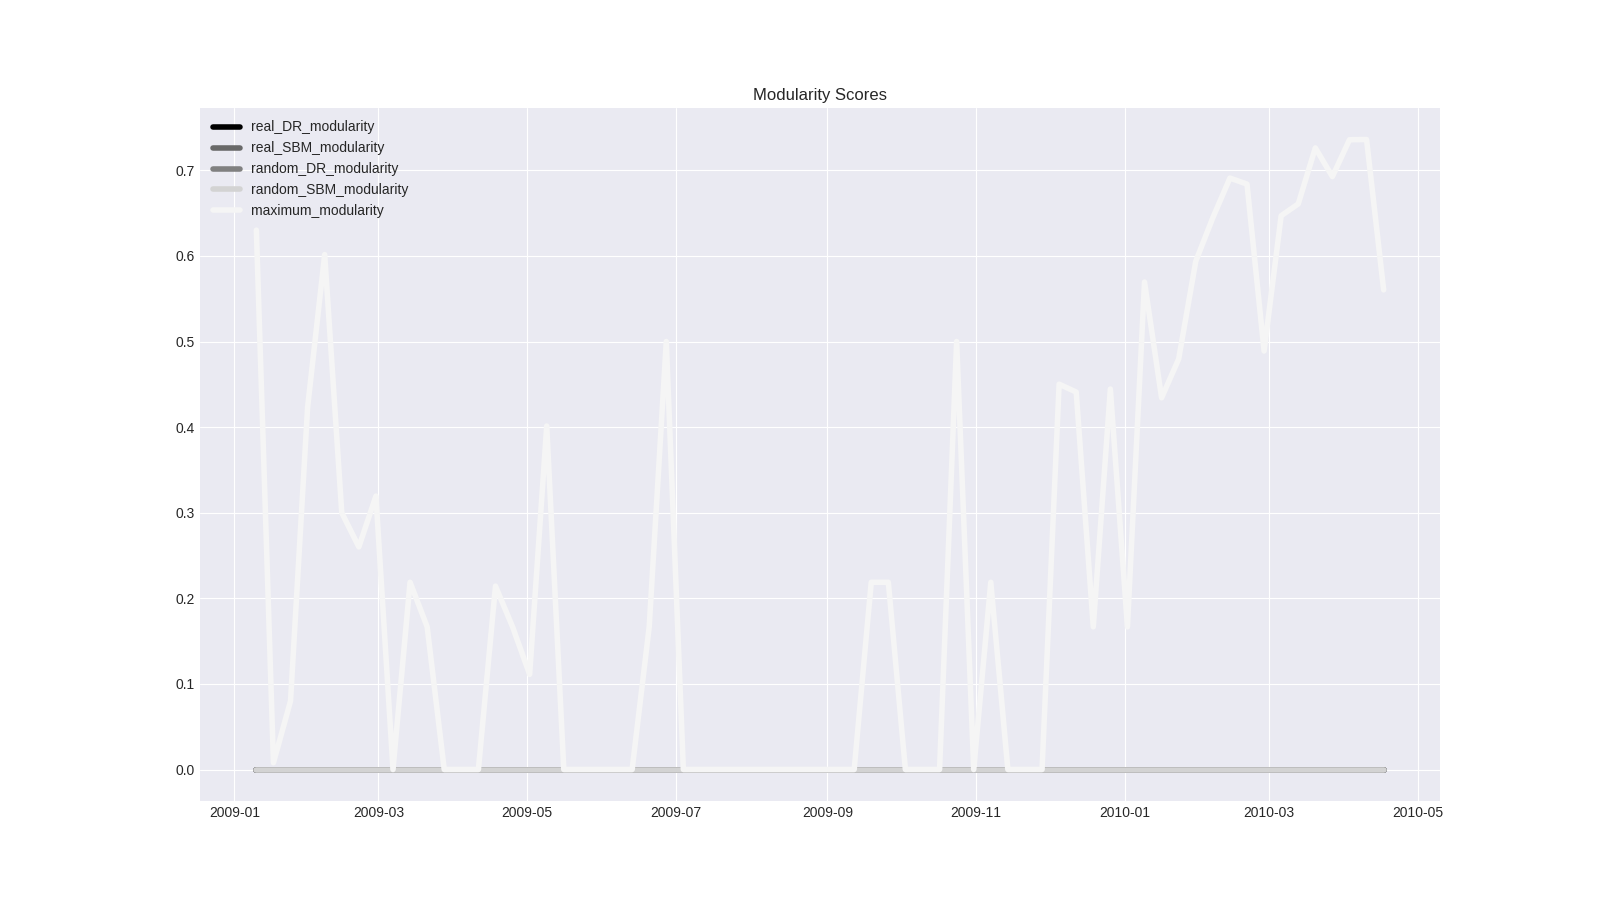
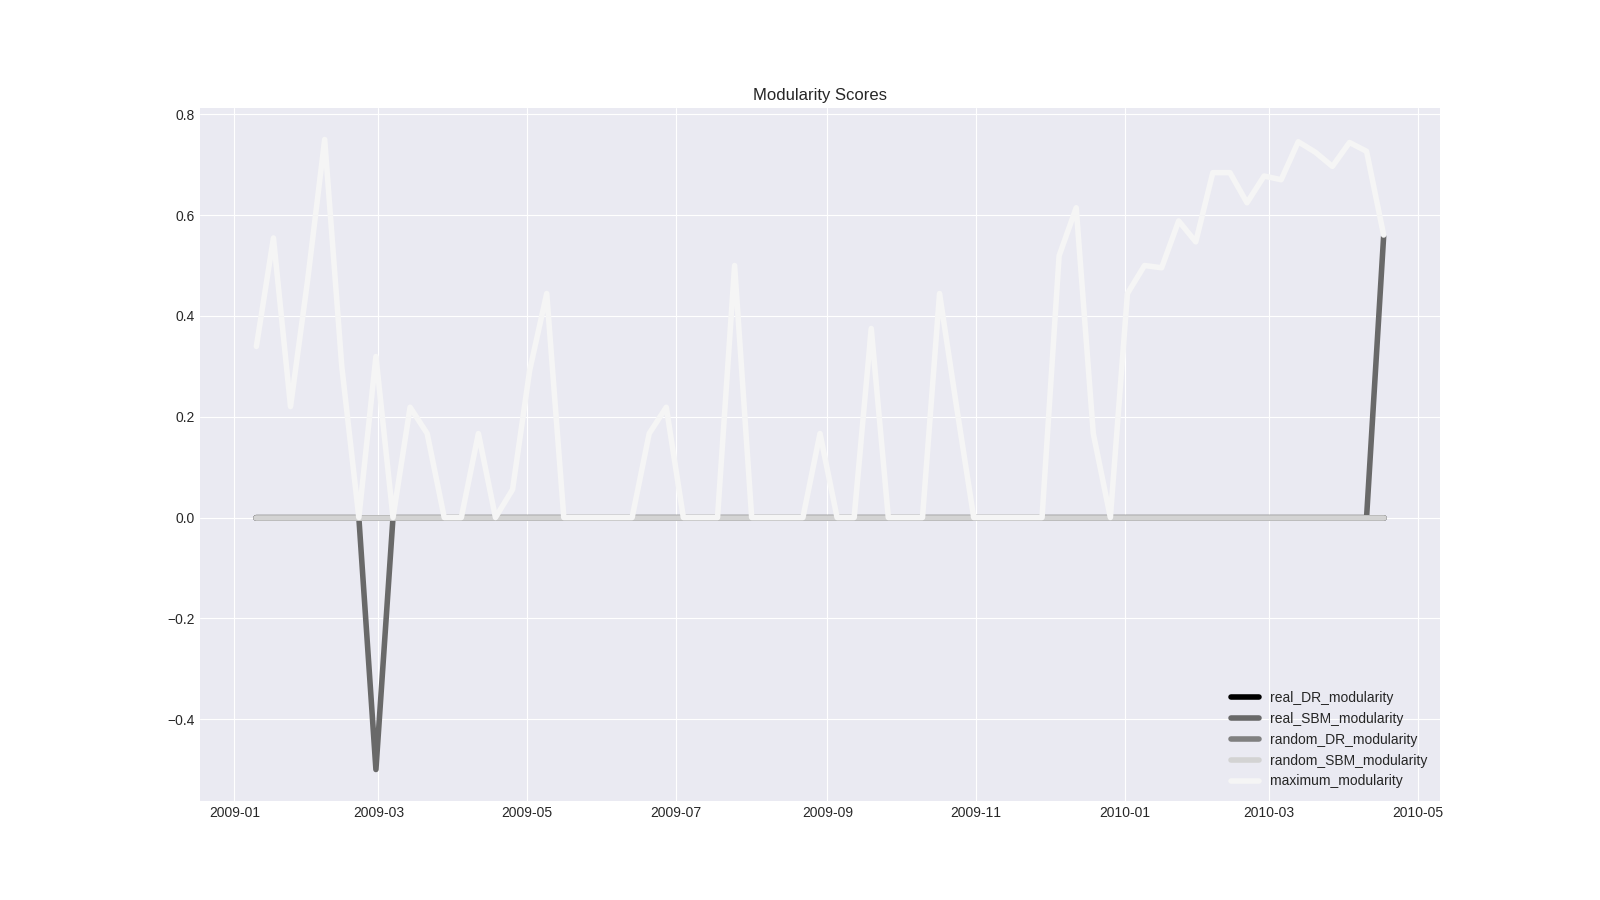
non parallel community using dicts

diff --git a/community_builder.py b/community_builder.py
@@ -16,6 +16,8 @@ import random
 import math
 import json
 import graph_tool.all as gt
+import operator
+import concurrent.futures
 # from NEMtropy import DirectedGraph
 # from NEMtropy import matrix_generator as mg
 # from NEMtropy.network_functions import build_adjacency_from_edgelist
@@ -157,7 +159,32 @@ def community_modularity_analysis(date):
 
     return real_DR_modularity, real_SBM_modularity, random_DR_modularity, random_SBM_modularity, maximum_modularity, clustering
 
+def process_timeunit(timeunit):
+    # Run randomizer + assortativity builder and store result
+    real_DR_unit, real_SBM_unit, random_DR_unit, random_SBM_unit, maximum_modularity_unit, clustering_unit = community_modularity_analysis(timeunit)
 
+    # Add values to data dictionaries
+    date = timeunit.strftime('%Y-%m-%d')
+    x_values.append(date)
+    x_values.sort()
+
+    for key, value in data_dicts.items():
+        if key == 'clustering':
+            value[date] = float(clustering_unit[0])
+        elif key == 'clustering_std':
+            value[date] = float(clustering_unit[1])
+        else:
+            value[date] = float(eval(key + '_unit'))
+
+    # Save data dictionaries after each process
+    for key, data_dict in data_dicts.items():
+        sorted_data = dict(sorted(data_dict.items(), key=operator.itemgetter(0)))
+        file_path = os.path.join(f'jsonResults_v3/h{options.heuristic}/community', f'{key}_2009-01-03_{end_date}.json')
+        with open(file_path, 'w') as f:
+            save_json = json.dumps(sorted_data)
+            f.write(save_json)
+
+    return timeunit
 
 if __name__ == "__main__":   
     options, args = parse_command_line()
@@ -181,65 +208,68 @@ if __name__ == "__main__":
     tqdm_bar = tqdm(datelist, desc="processed files")
 
     x_values = []
-    real_DR_total, real_SBM_total, random_DR_total, random_SBM_total, maximum_modularity_total, clustering_total, clustering_std_total = ([] for i in range(7))
+    # real_DR_total, real_SBM_total, random_DR_total, random_SBM_total, maximum_modularity_total, clustering_total, clustering_std_total = ({{}} for i in range(7))
+    data_dicts = {
+    'real_DR': {},
+    'real_SBM': {},
+    'random_DR': {},
+    'random_SBM': {},
+    'maximum_modularity': {},
+    'clustering': {},
+    'clustering_std': {}}
 
-    for timeunit in tqdm_bar:
-
-        # Run randomizer + assortativity builder and store result
-        real_DR_unit, real_SBM_unit, random_DR_unit, random_SBM_unit, maximum_modularity_unit, clustering_unit = community_modularity_analysis(timeunit)
-
-        x_values.append(timeunit.strftime('%Y-%m-%d'))
-
-        real_DR_total.append(float(real_DR_unit))
-        real_SBM_total.append(float(real_SBM_unit))
-        random_DR_total.append(float(random_DR_unit))
-        random_SBM_total.append(float(random_SBM_unit))
-        maximum_modularity_total.append(float(maximum_modularity_unit))
-        clustering_total.append(float(clustering_unit[0]))
-        clustering_std_total.append(float(clustering_unit[1]))
-
-
-        tqdm_bar.set_description(f"week of '{timeunit.strftime('%Y-%m-%d')} took {chrono.elapsed('proc')} sec", refresh=True)
-
-    with open(f'jsonResults_v3/h{options.heuristic}/community/real_DR_modularity_2009-01-03_{end_date}.json', 'w') as f:
-        results_dict = dict(zip(x_values, real_DR_total))
-        save_json = json.dumps(results_dict)
-        f.write(save_json)
-
-    with open(f'jsonResults_v3/h{options.heuristic}/community/real_SBM_modularity_2009-01-03_{end_date}.json', 'w') as f:
-        results_dict = dict(zip(x_values, real_SBM_total))
-        save_json = json.dumps(results_dict)
-        f.write(save_json)
-
-    with open(f'jsonResults_v3/h{options.heuristic}/community/random_DR_modularity_2009-01-03_{end_date}.json', 'w') as f:
-        results_dict = dict(zip(x_values, random_DR_total))
-        save_json = json.dumps(results_dict)
-        f.write(save_json)
-
-    with open(f'jsonResults_v3/h{options.heuristic}/community/random_SBM_modularity_2009-01-03_{end_date}.json', 'w') as f:
-        results_dict = dict(zip(x_values, random_SBM_total))
-        save_json = json.dumps(results_dict)
-        f.write(save_json)
-
-    with open(f'jsonResults_v3/h{options.heuristic}/community/maximum_modularity_2009-01-03_{end_date}.json', 'w') as f:
-        results_dict = dict(zip(x_values, maximum_modularity_total))
-        save_json = json.dumps(results_dict)
-        f.write(save_json)
-
-    with open(f'jsonResults_v3/h{options.heuristic}/community/global_clustering_2009-01-03_{end_date}.json', 'w') as f:
-        results_dict = dict(zip(x_values, clustering_total))
-        save_json = json.dumps(results_dict)
-        f.write(save_json)
     
+    # Create a ThreadPoolExecutor
+    with concurrent.futures.ThreadPoolExecutor() as executor:
+        # Process timeunits in parallel
+        futures = [executor.submit(process_timeunit, timeunit) for timeunit in tqdm_bar]
+
+        # Wait for all futures to complete
+        concurrent.futures.wait(futures)
+
+    # for timeunit in tqdm_bar:
+
+    #     # Run randomizer + assortativity builder and store result
+    #     real_DR_unit, real_SBM_unit, random_DR_unit, random_SBM_unit, maximum_modularity_unit, clustering_unit = community_modularity_analysis(timeunit)
+
+    #     # Add values to data dictionaries
+    #     date = timeunit.strftime('%Y-%m-%d')
+    #     x_values.append(date)
+        
+    #     for key, value in data_dicts.items():
+    #         if key == 'clustering':
+    #             value[date] = float(clustering_unit[0])
+    #         elif key == 'clustering_std':
+    #             value[date] = float(clustering_unit[1])
+    #         else:
+    #             value[date] = float(eval(key + '_unit'))
+            
+        
+    #     for key, data_dict in data_dicts.items():
+    #         file_path = os.path.join(f'jsonResults_v3/h{options.heuristic}/community', f'{key}_2009-01-03_{end_date}.json')
+    #         with open(file_path, 'w') as f:
+    #             save_json = json.dumps(data_dict)
+    #             f.write(save_json)
+
+
+    #     tqdm_bar.set_description(f"week of '{timeunit.strftime('%Y-%m-%d')} took {chrono.elapsed('proc')} sec", refresh=True)
+    
+    # Load the data from the saved JSON files
+    # data = {}
+    # for key in data_dicts.keys():
+    #     file_path = os.path.join(f'jsonResults_v3/h{options.heuristic}/community', f'{key}_2009-01-03_{end_date}.json')
+    #     with open(file_path, 'r') as f:
+    #         data[key] = json.load(f)
+
     dates = matplotlib.dates.date2num(x_values)
     fig = matplotlib.pyplot.figure(figsize=(16, 9), dpi=100)
     matplotlib.pyplot.style.use('seaborn-darkgrid')
     matplotlib.pyplot.legend(loc="upper left")
-    matplotlib.pyplot.plot_date(dates, real_DR_total, 'k-', color='black', linewidth=4, label="real_DR_modularity")
-    matplotlib.pyplot.plot_date(dates, real_SBM_total, 'k-', color='dimgray', linewidth=4, label="real_SBM_modularity")
-    matplotlib.pyplot.plot_date(dates, random_DR_total, 'k-', color='gray', linewidth=4, label="random_DR_modularity")
-    matplotlib.pyplot.plot_date(dates, random_SBM_total, 'k-', color='lightgray', linewidth=4, label="random_SBM_modularity")
-    matplotlib.pyplot.plot_date(dates, maximum_modularity_total, 'k-', color='whitesmoke', linewidth=4, label="maximum_modularity")
+    matplotlib.pyplot.plot_date(dates, data_dicts["real_DR"].values(), 'k-', color='black', linewidth=4, label="real_DR_modularity")
+    matplotlib.pyplot.plot_date(dates, data_dicts["real_SBM"].values(), 'k-', color='dimgray', linewidth=4, label="real_SBM_modularity")
+    matplotlib.pyplot.plot_date(dates, data_dicts["random_DR"].values(), 'k-', color='gray', linewidth=4, label="random_DR_modularity")
+    matplotlib.pyplot.plot_date(dates, data_dicts["random_SBM"].values(), 'k-', color='lightgray', linewidth=4, label="random_SBM_modularity")
+    matplotlib.pyplot.plot_date(dates, data_dicts["maximum_modularity"].values(), 'k-', color='whitesmoke', linewidth=4, label="maximum_modularity")
     matplotlib.pyplot.legend()
     matplotlib.pyplot.gca().set_title("Modularity Scores")
     matplotlib.pyplot.savefig(f'jsonResults_v3/h{options.heuristic}/community/Modularity_Plot.png', dpi=100)
